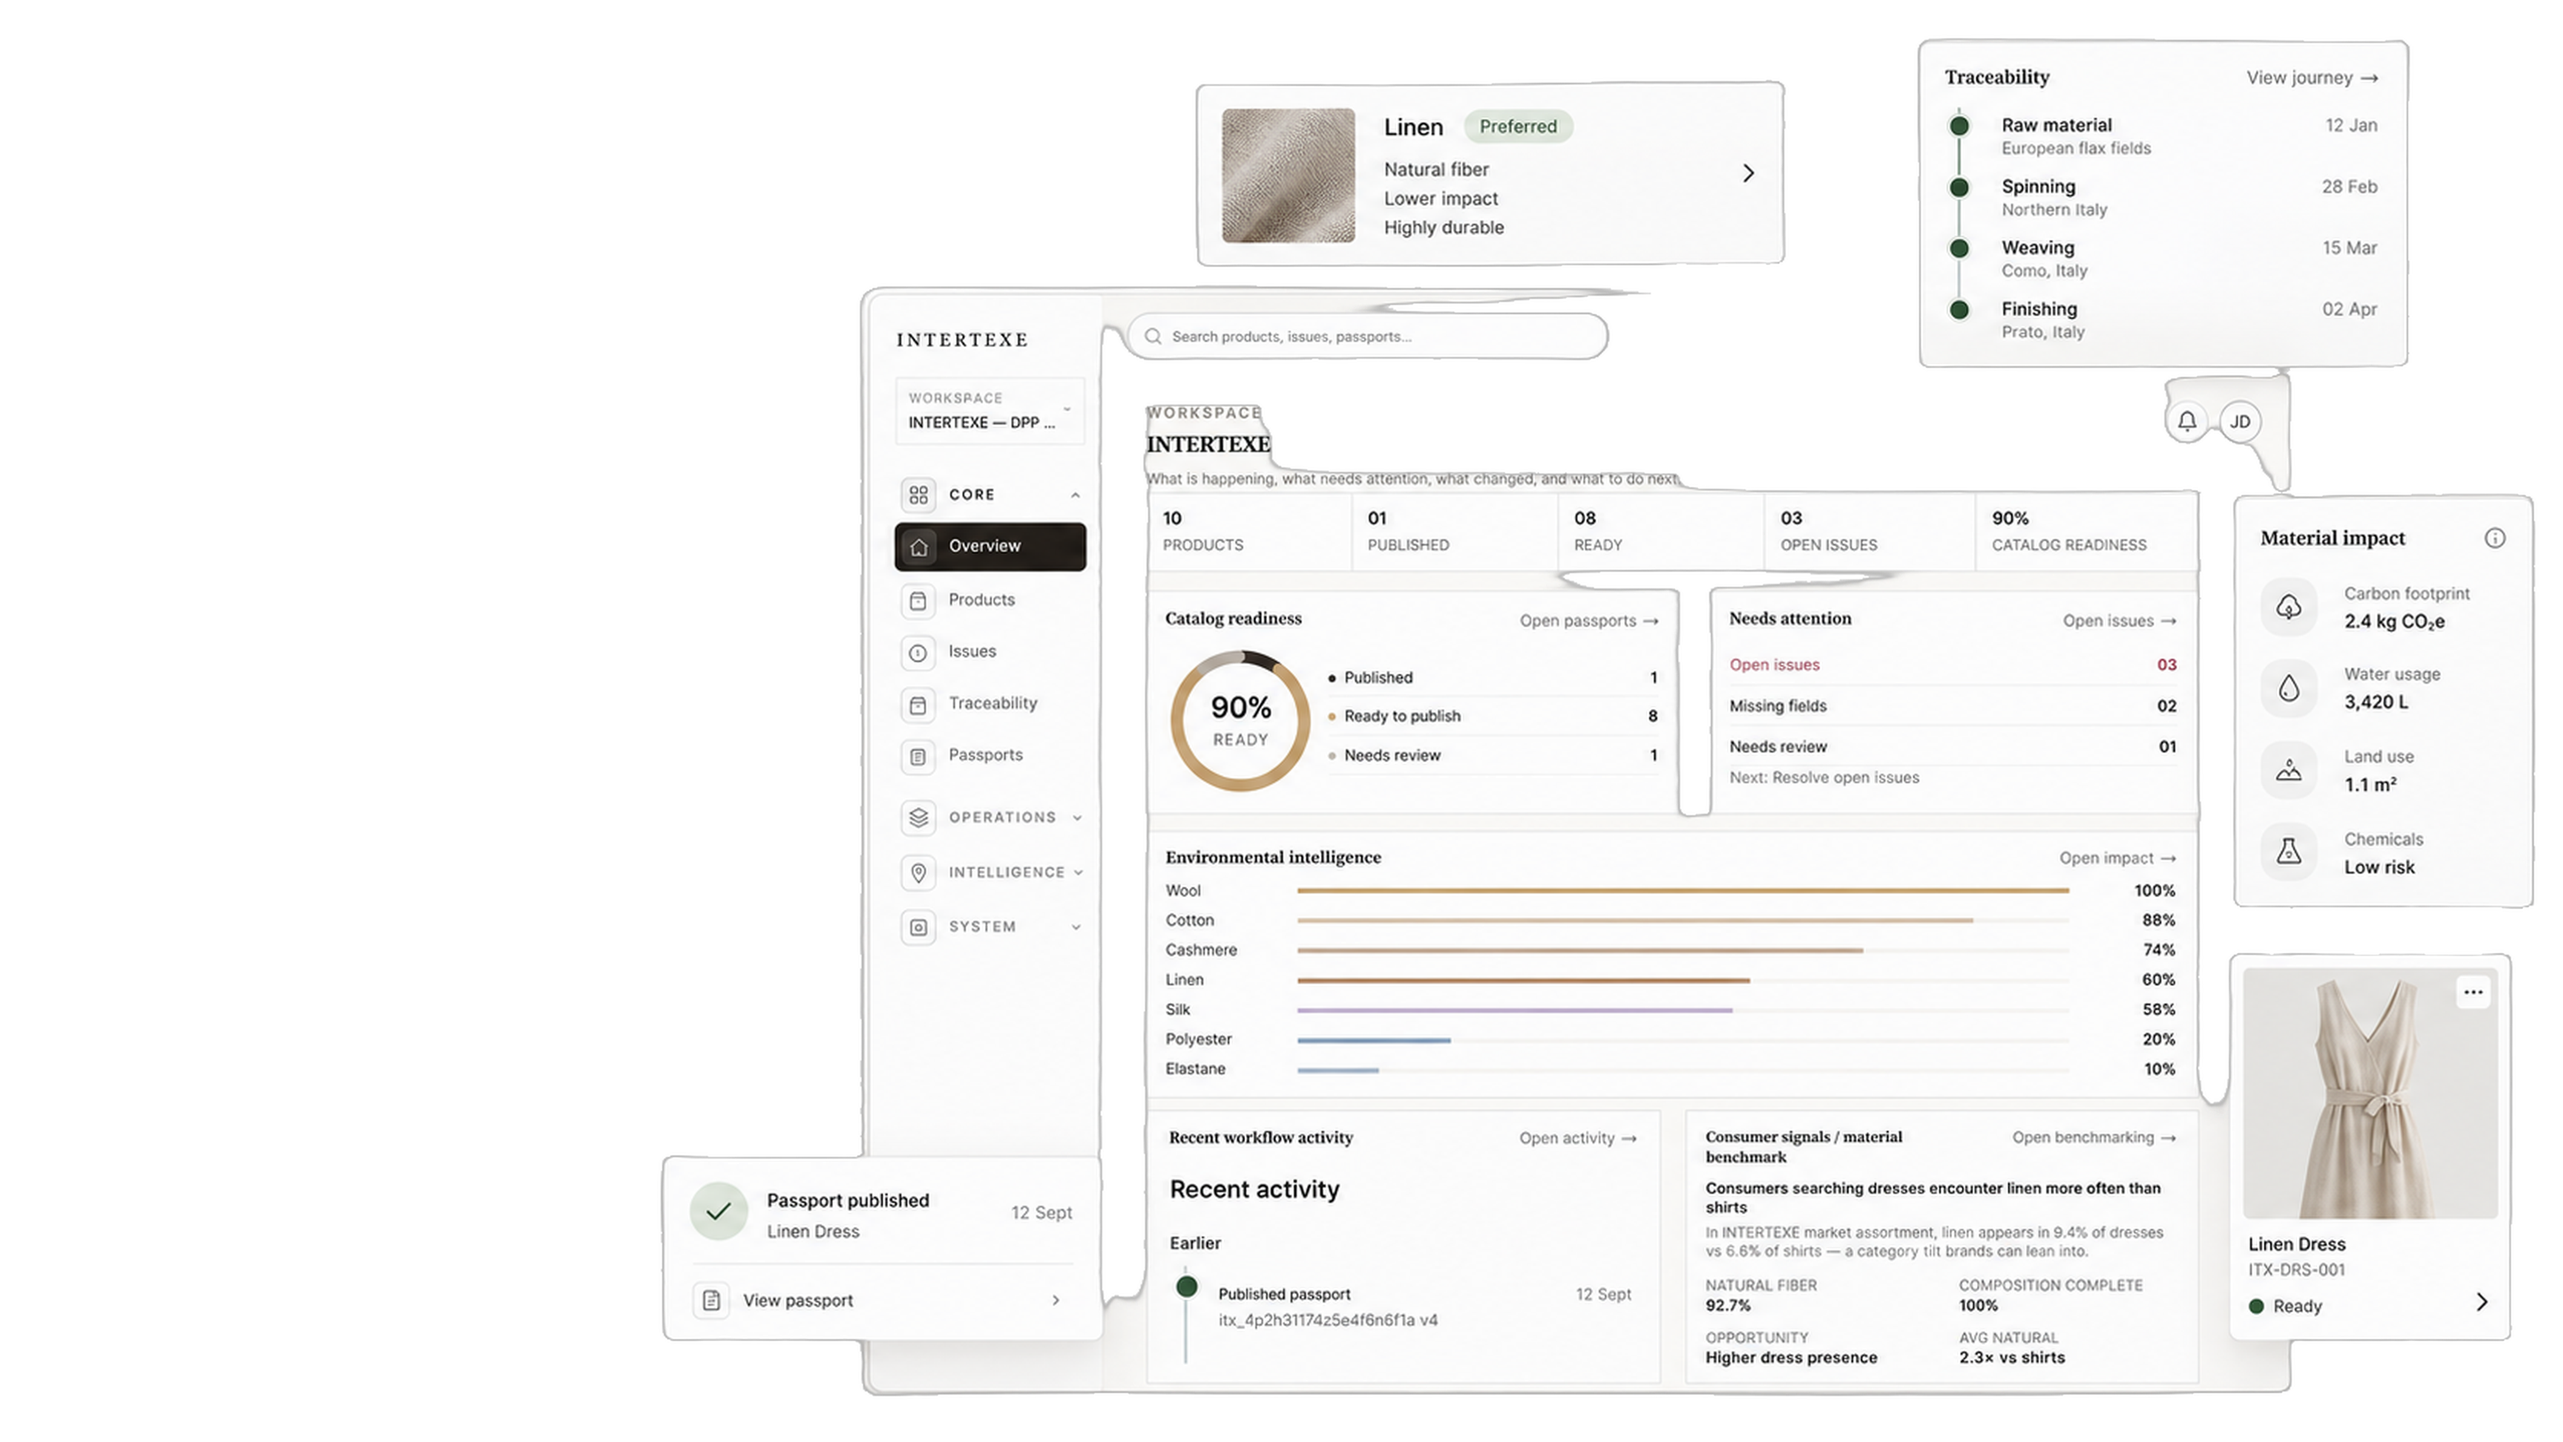
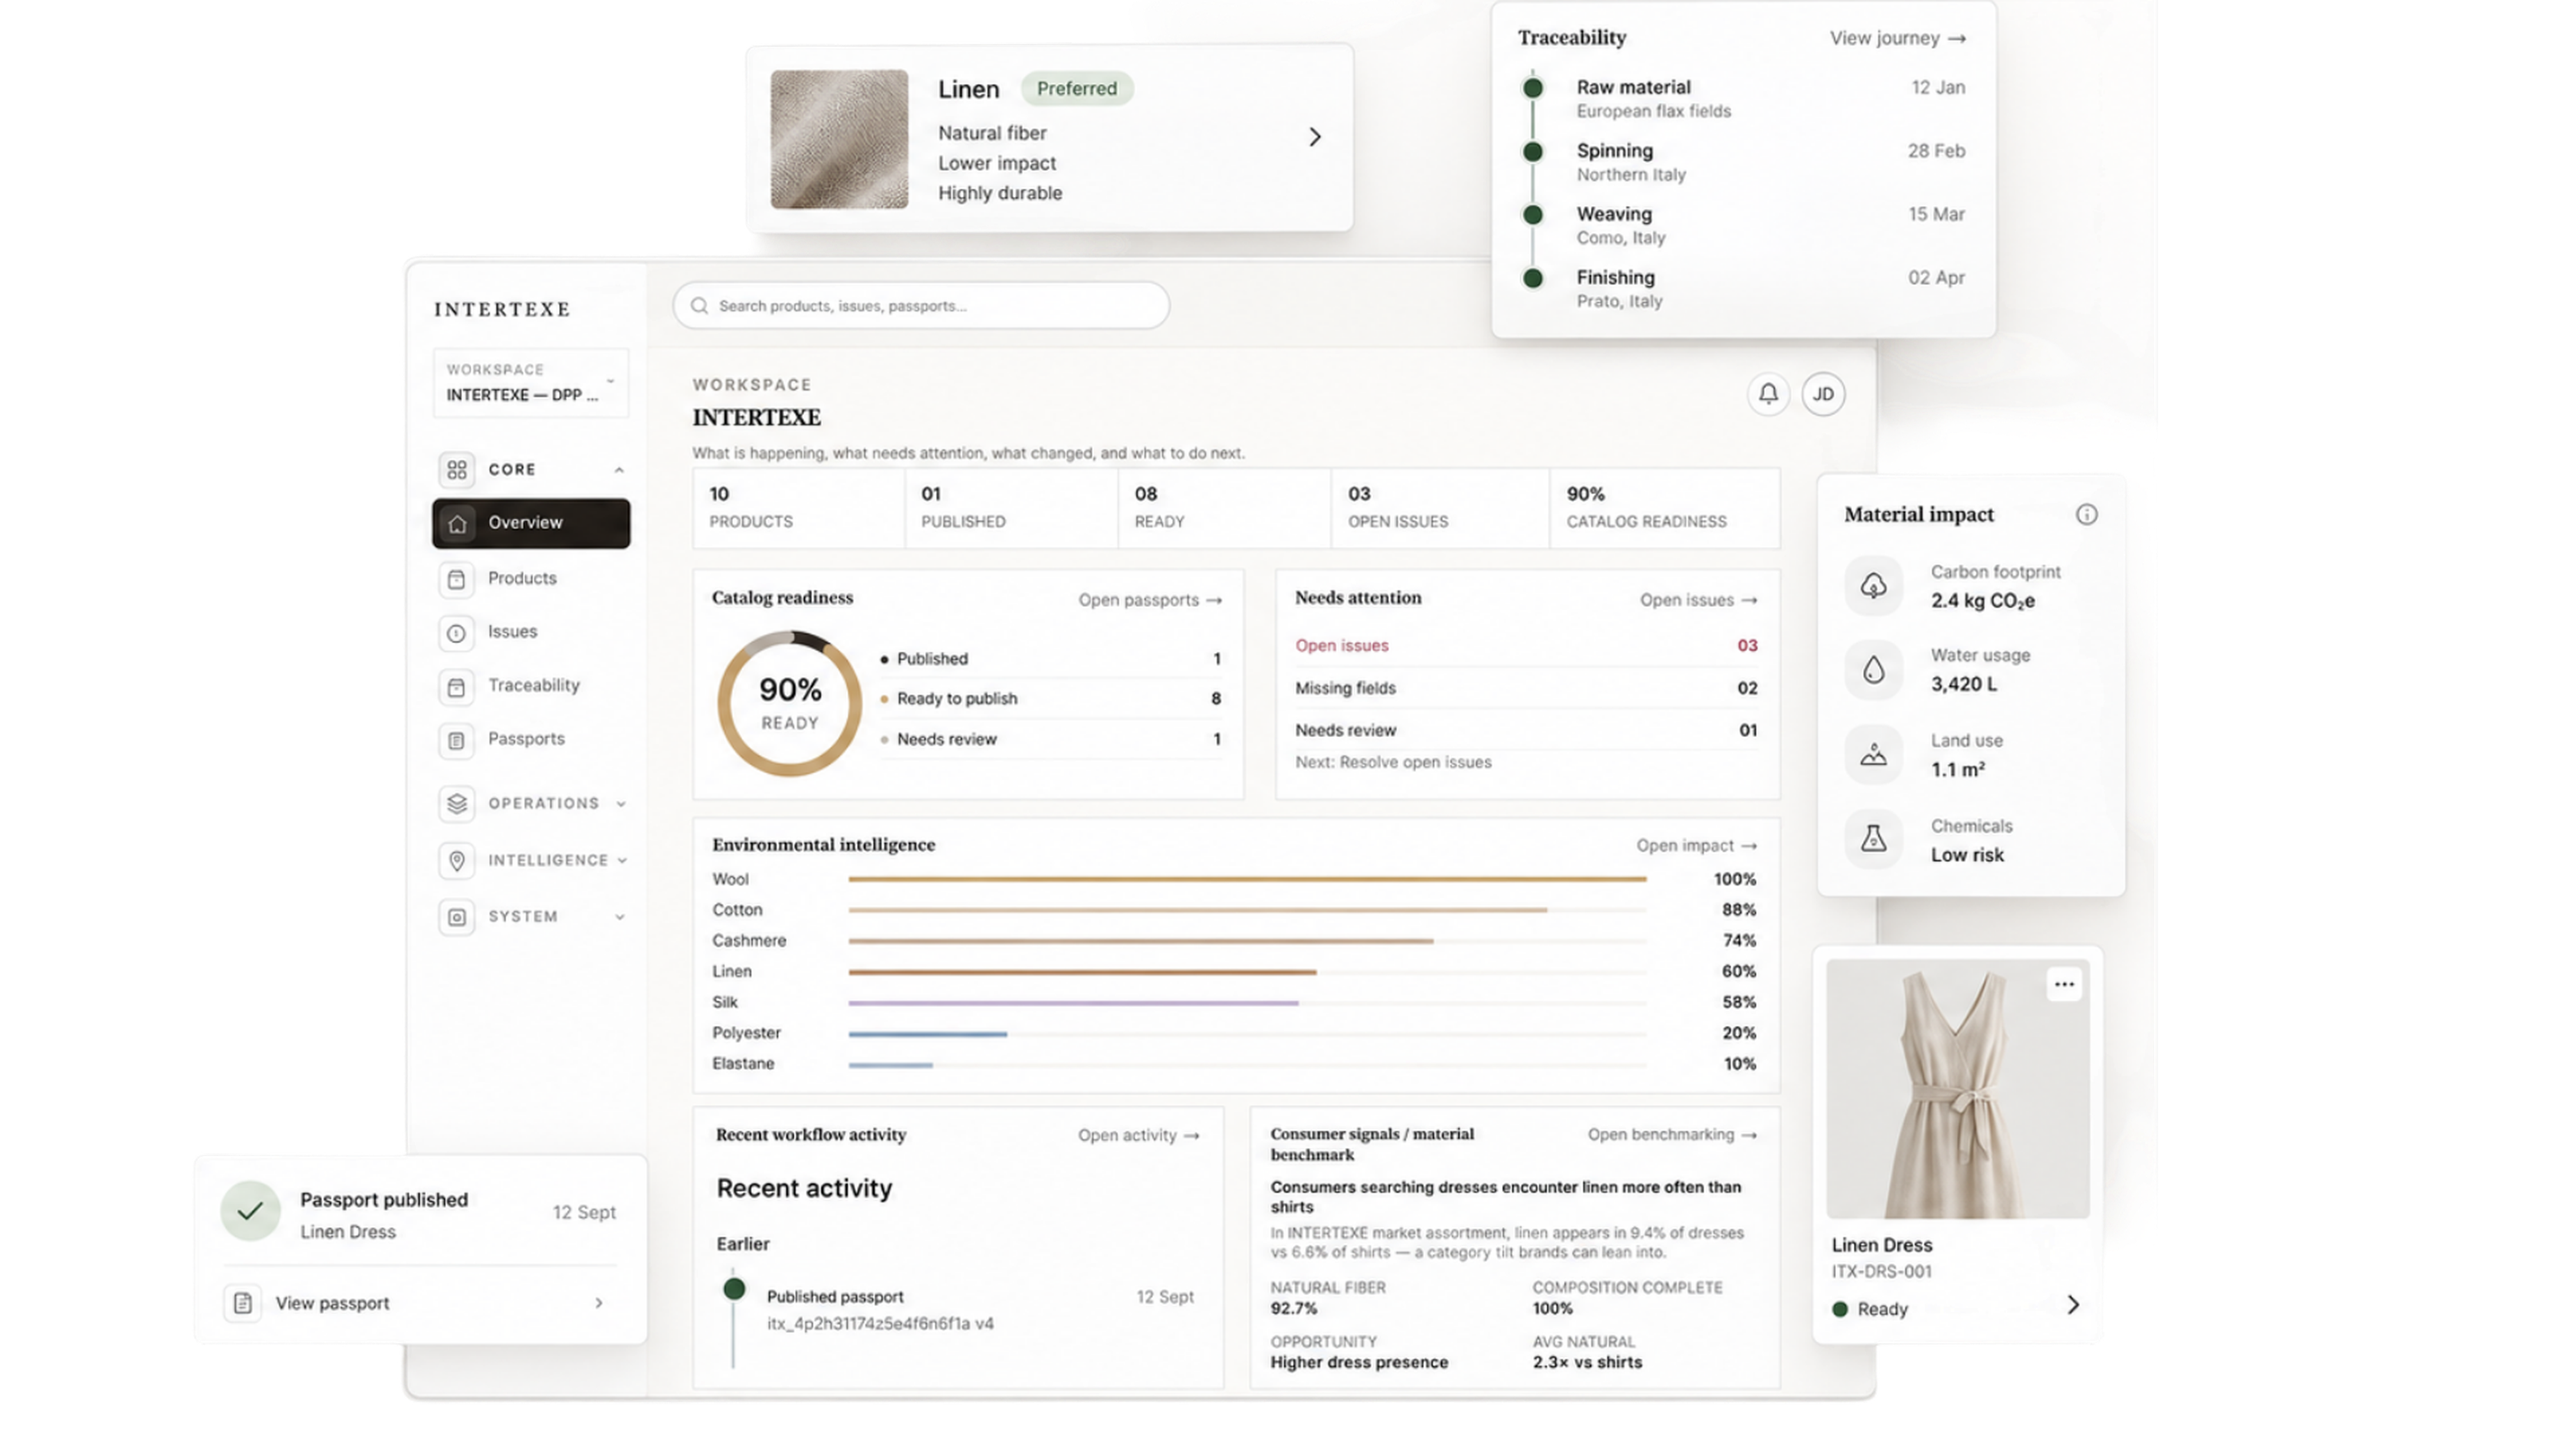
Use true transparent workspace PNG on See it Live hero
Replace the cutout with the provided RGBA asset (scaled for the large hero) and bump the cache key so the floating cards render with real alpha on the dark stage.

diff --git a/app/platform/GovernedRecordStageSection.tsx b/app/platform/GovernedRecordStageSection.tsx
@@ -28,10 +28,10 @@ export function GovernedRecordStageSection() {
       <div className="governed-opener-visual">
         {/* Native img keeps PNG alpha reliable for the floating composition. */}
         <img
-          src="/platform/demo-governed-workspace.png?v=alpha2"
+          src="/platform/demo-governed-workspace.png?v=alpha3"
           alt="INTERTEXE workspace with catalog readiness, material intelligence, traceability, and passport activity cards."
-          width={3344}
-          height={1882}
+          width={3360}
+          height={1890}
           className="governed-opener-image"
           decoding="async"
           fetchPriority="high"
